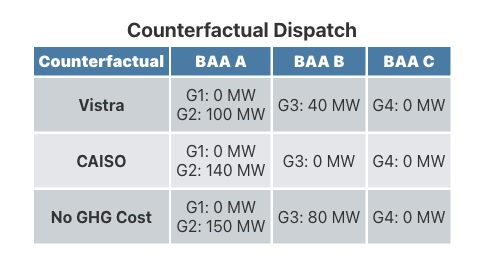
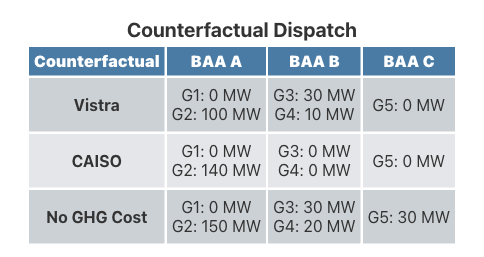
working version

diff --git a/ghg_counterfactual2.py b/ghg_counterfactual2.py
@@ -102,6 +102,7 @@ def run_solver(
   })
   
   if include_ghg:
+    
     for idx, vars in enumerate(zip(gen_energy_vars, gen_attrib_vars)):
       
       if generators[idx]['ghg_area']:
@@ -110,9 +111,13 @@ def run_solver(
       if not generators[idx]['ghg_area']:
         constraints.update({solver.Add(vars[1] - vars[0] <= 0).name(): f"alloc_limit{idx + 1}"})
     
+    
+    non_ghg_energy_vars = [energy_var for gen, energy_var in zip(generators, gen_energy_vars) if not gen['ghg_area']]
+    non_ghg_attrib_vars = [attrib_var for gen, attrib_var in zip(generators, gen_attrib_vars) if not gen['ghg_area']]
+    
     constraints.update({
       solver.Add(
-        sum(gen_energy_vars[0:3]) + (-1) * sum(gen_attrib_vars[0:3]) <= non_ghg_area_load + net_import_reference_mw).name():
+        sum(non_ghg_energy_vars) + (-1) * sum(non_ghg_attrib_vars) <= non_ghg_area_load + net_import_reference_mw).name():
         "export_constraint"
       })
       
@@ -602,7 +607,7 @@ def run_all(generators, ctf_loads, market_loads, outdir, write_tables = True):
       generators,
       gen_idx_baa_dict,
       non_ghg_baas,
-      ["-", "-" , "-", "-"], 
+      ["-"] * len(generators), 
       no_ctf_solution, 
       f"{outdir}/no_ctf_market_run.png"
       )
@@ -647,7 +652,7 @@ def run_all(generators, ctf_loads, market_loads, outdir, write_tables = True):
     
     # load settlement
     
-    make_load_settlement_table(loads, vistra_solution, caiso_solution, noghg_solution)\
+    make_load_settlement_table(market_loads, vistra_solution, caiso_solution, noghg_solution)\
     .save(f"{outdir}/load_settlement.png")
     
     

diff --git a/example02.py b/example02.py
@@ -14,22 +14,26 @@ L3_mg = L3 #make_load(load = 90, ghg_area = True, BAA = "C", name = "L3")
   
 gen1 = make_generator(
   energy_bid = 17, energy_cap = 50, ghg_adder = 4,
-  ghg_area = False, name = "gen1", BAA = "A"
+  ghg_area = False, name = "G1", BAA = "A"
   )
 gen2 = make_generator(
   energy_bid = 10, energy_cap = 150, ghg_adder = 0,
-  ghg_area = False, name = "gen2", BAA = "A"
+  ghg_area = False, name = "G2", BAA = "A"
   )
 gen3 = make_generator(
-  energy_bid = 12, energy_cap = 50, ghg_adder = 13,
-  ghg_area = False, name = "gen3", BAA = "B"
+  energy_bid = 11, energy_cap = 30, ghg_adder = 13,
+  ghg_area = False, name = "G3", BAA = "B"
   )
 gen4 = make_generator(
+  energy_bid = 12, energy_cap = 20, ghg_adder = 14,
+  ghg_area = False, name = "G4", BAA = "B"
+  )
+gen5 = make_generator(
   energy_bid = 13, energy_cap = 100, ghg_adder = 20,
-  ghg_area = True, name = "gen4", BAA = "C"
+  ghg_area = True, name = "G5", BAA = "C"
   )
 
-generators = [gen1, gen2, gen3, gen4]
+generators = [gen1, gen2, gen3, gen4, gen5]
 ctf_loads = [L1, L2, L3]
 market_loads = [L1, L2, L3]
 
